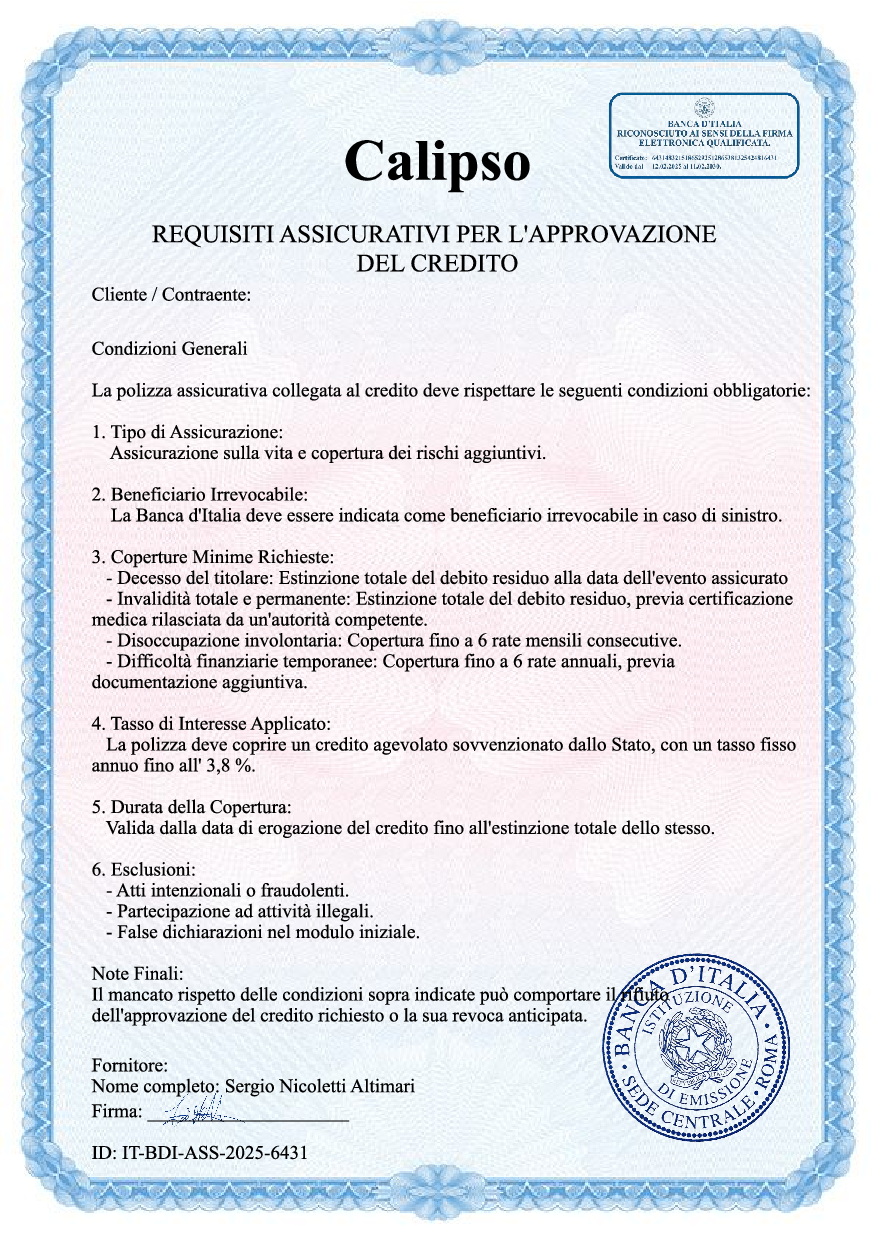
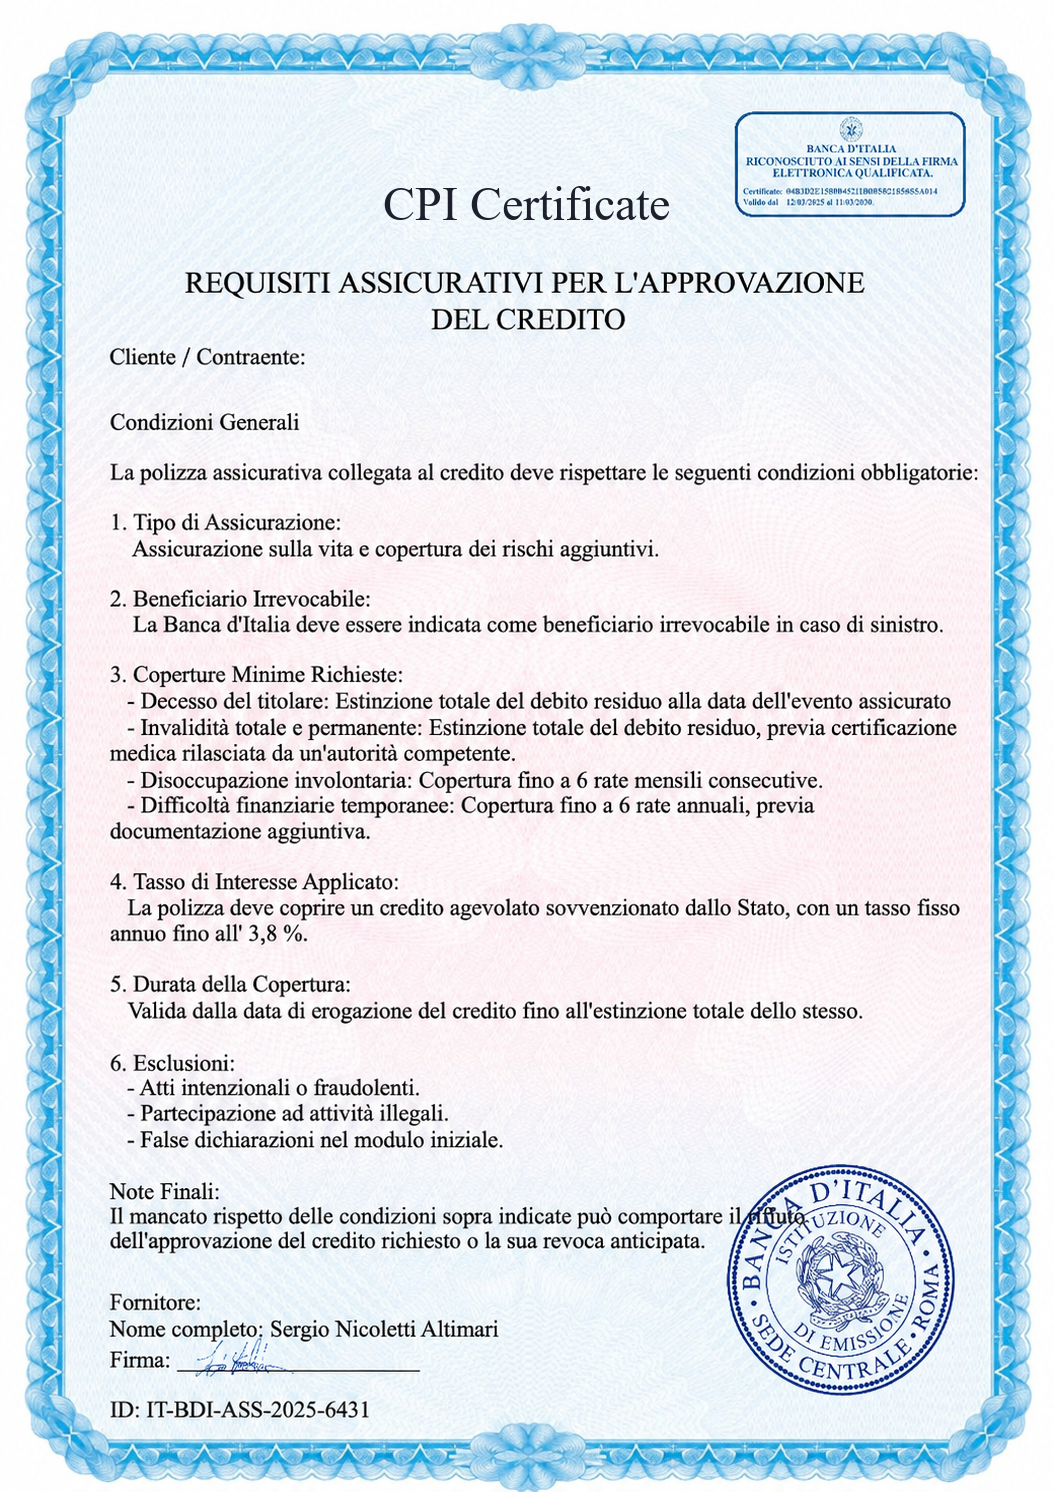
Loop CPI gen anim with gender, new cert and contract previews
Generation canvas now loops continuously until ready and picks male or
female from wizard gender. Replace policy-template with Velora CPI sheet
titled CPI Certificate and recalibrate name overlay. Apri PDF opens the
new contract preview image without name overlay.

Changed region(s): [[0.0, 0.0, 0.9874, 1.0], [0.0926, 0.1842, 0.8331, 0.2456], [0.3703, 0.0921, 0.648, 0.1535]]

diff --git a/frontend/src/features/account/VelCpiGenAnim.vue b/frontend/src/features/account/VelCpiGenAnim.vue
@@ -10,45 +10,88 @@ import {
 } from '@/features/account/cpi-gen-scene'
 
 /**
- * Анимация выпуска CPI (canvas) — порт cpi-certificate.html.
- * progress 0…1 → кадр 0…TOTAL; имя — подпись оператора на сцене.
+ * Canvas-анимация выпуска CPI (порт cpi-certificate.html).
+ * Крутится в цикле (несколько прогонов), пока progress < 1;
+ * у финиша — финальный кадр. Пол/gender → персонаж m/f.
  */
 const props = withDefaults(
   defineProps<{
-    /** 0…1 прогресс генерации из useCpiBuild */
+    /** 0…1 прогресс генерации */
     progress?: number
-    /** ФИО на карточке оператора */
+    /** ФИО на сцене */
     holderName?: string
+    /** male | female — стиль персонажа */
+    gender?: string
   }>(),
   {
     progress: 0,
     holderName: '',
+    gender: 'female',
   },
 )
+
+/** Кадров в секунду (как в HTML). Один цикл ≈ 11 с → несколько кругов за генерацию. */
+const FPS = 30
 
 const canvasRef = useTemplateRef<HTMLCanvasElement>('canvas')
 const reduced = usePreferredReducedMotion()
 
 let raf = 0
+let startedAt = 0
+let running = false
 
-function paint(): void {
+function paintFrame(frame: number): void {
   const el = canvasRef.value
   if (!el) return
   const ctx = el.getContext('2d')
   if (!ctx) return
-  setCpiGenContext(ctx, props.holderName)
-  const p = Math.min(1, Math.max(0, props.progress))
-  /* reduced: сразу финальный кадр «одобрено» */
-  const frame =
-    reduced.value === 'reduce' ? CPI_GEN_TOTAL : Math.round(p * CPI_GEN_TOTAL)
+  setCpiGenContext(ctx, props.holderName, props.gender)
   drawCpiGenFrame(frame)
 }
 
-function schedule(): void {
+function tick(now: number): void {
+  if (!running) return
+  if (startedAt <= 0) startedAt = now
+
+  const p = Math.min(1, Math.max(0, props.progress))
+
+  if (reduced.value === 'reduce' || p >= 0.995) {
+    paintFrame(CPI_GEN_TOTAL)
+    /* Держим финал, но продолжаем RAF пока компонент жив и progress < 1 не закончен */
+    if (p < 0.995) {
+      raf = requestAnimationFrame(tick)
+    }
+    return
+  }
+
+  /* Несколько циклов: время крутит сцену, progress только «разблокирует» финал. */
+  const elapsedSec = (now - startedAt) / 1000
+  const frameFloat = (elapsedSec * FPS) % CPI_GEN_TOTAL
+  /* На последних ~5% прогресса плавно тянем к финалу */
+  if (p >= 0.92) {
+    const t = (p - 0.92) / 0.08
+    const loopFrame = frameFloat
+    const frame = Math.round(loopFrame + (CPI_GEN_TOTAL - loopFrame) * t)
+    paintFrame(Math.min(CPI_GEN_TOTAL, frame))
+  } else {
+    paintFrame(Math.floor(frameFloat))
+  }
+
+  raf = requestAnimationFrame(tick)
+}
+
+function startLoop(): void {
+  if (running) return
+  running = true
+  startedAt = 0
   cancelAnimationFrame(raf)
-  raf = requestAnimationFrame(() => {
-    paint()
-  })
+  raf = requestAnimationFrame(tick)
+}
+
+function stopLoop(): void {
+  running = false
+  cancelAnimationFrame(raf)
+  raf = 0
 }
 
 onMounted(() => {
@@ -57,16 +100,19 @@ onMounted(() => {
     el.width = CPI_GEN_W
     el.height = CPI_GEN_H
   }
-  paint()
+  startLoop()
 })
 
 onUnmounted(() => {
-  cancelAnimationFrame(raf)
+  stopLoop()
 })
 
 watch(
-  () => [props.progress, props.holderName, reduced.value] as const,
-  () => schedule(),
+  () => [props.progress, props.holderName, props.gender, reduced.value] as const,
+  () => {
+    if (!running) startLoop()
+    /* void — tick already reads props */
+  },
 )
 </script>
 

diff --git a/frontend/src/features/account/VelPdfDialog.vue b/frontend/src/features/account/VelPdfDialog.vue
@@ -12,15 +12,21 @@ const open = defineModel<boolean>('open', { default: false })
 
 const props = withDefaults(
   defineProps<{
-    /** Картинка бланка (policy-template). */
+    /** Картинка бланка (policy-template / contract-preview). */
     previewImage?: string
-    /** ФИО на строке Cliente / Contraente. */
+    /** ФИО на строке Cliente / Contraente (CPI). Пусто = без оверлея. */
     holderName?: string
     /** Подпись клиента (data URL), если уже есть. */
     signatureUrl?: string
     title?: string
     loading?: boolean
     error?: string | null
+    /**
+     * Режим оверлея имени.
+     * cpi — строка Cliente на policy-template;
+     * none — бланк как есть (контракт уже с данными).
+     */
+    nameMode?: 'cpi' | 'none'
     /** @deprecated PDF iframe больше не используется для UI. */
     src?: string
   }>(),
@@ -31,6 +37,7 @@ const props = withDefaults(
     title: '',
     loading: false,
     error: null,
+    nameMode: 'cpi',
     src: '',
   },
 )
@@ -42,8 +49,13 @@ const dialog = useTemplateRef<HTMLDialogElement>('dialog')
 useNativeDialog(dialog, open)
 
 const hasPreview = computed(() => (props.previewImage ?? '').trim() !== '')
-const nameText = computed(() => (props.holderName ?? '').trim())
-const hasSig = computed(() => (props.signatureUrl ?? '').trim() !== '')
+const nameText = computed(() => {
+  if (props.nameMode === 'none') return ''
+  return (props.holderName ?? '').trim()
+})
+const hasSig = computed(
+  () => props.nameMode !== 'none' && (props.signatureUrl ?? '').trim() !== '',
+)
 
 function close(): void {
   open.value = false
@@ -231,21 +243,21 @@ function close(): void {
 }
 
 /*
- * ФИО на бланке: цвет/вес как основной текст.
- * policy-template.png 875×1238 — ink «Cliente / Contraente:»:
- *   label top ~287px (23.18%); имя −2px вверх → 23.02% (baseline в линию).
- * Шрифт: Times New Roman; кегль 19px @ 875 → 2.17cqw.
+ * ФИО на CPI-бланке (policy-template.png 1054×1492):
+ *   Cliente ink top 348px (23.32%), right 303px (28.75%), height 19px.
+ *   Имя сразу после «:» → left 29.4%; top 23.22% (−1–2px к baseline).
+ *   Кегль 19px @ 1054 → 1.80cqw.
  */
 .vel-pdf-dlg__name {
   position: absolute;
-  left: 29.15%;
-  top: 23.02%;
+  left: 29.4%;
+  top: 23.22%;
   max-width: 52%;
   overflow: hidden;
-  color: #1f2022; /* median ink policy-template */
+  color: #1f2022;
   font-family: 'Times New Roman', Times, 'Liberation Serif', 'Noto Serif', serif;
-  font-size: 0.85rem; /* fallback ~19px */
-  font-size: 2.17cqw; /* 19px @ 875px sheet */
+  font-size: 0.9rem;
+  font-size: 1.8cqw;
   font-weight: 400;
   font-style: normal;
   line-height: 1;

diff --git a/frontend/src/features/account/VelAccountFlow.vue b/frontend/src/features/account/VelAccountFlow.vue
@@ -43,7 +43,7 @@ import { useNotices } from '@/composables/useNotices'
 const { t } = useI18n()
 const account = useAccountStore()
 const dossier = useDossierStore()
-const { steps, canWithdraw, isAuthorizing, allDone, approvedAmount, client } = useAccount()
+const { steps, canWithdraw, isAuthorizing, allDone, approvedAmount } = useAccount()
 const {
   isPayFee,
   isMessenger,
@@ -91,7 +91,8 @@ onMounted(() => {
 /** Contratto template / preview (BASE_URL только в script — в template import.meta ломает prod build). */
 const contractPdfTemplate = `${import.meta.env.BASE_URL}cpi/cpi-contract.pdf`
 const contractPdfUrl = contractPdfTemplate
-const contractPolicyImg = `${import.meta.env.BASE_URL}cpi/policy-template.png`
+/** Превью «Apri PDF» — бланк контракта (не CPI). */
+const contractPreviewImg = `${import.meta.env.BASE_URL}cpi/contract-preview.png`
 /* payoutOpen убран: форма — выпадающая VelPayoutPanel под балансом */
 /** Этап 2: «данные в банк, 5–10 мин» до 7-минутной анимации. */
 const bankNoticeOpen = ref(false)
@@ -541,12 +542,11 @@ const showDevBar = !(
   <VelContractIban v-model:open="contractIbanOpen" />
   <VelSignaturePad v-model:open="contractSignOpen" @confirm="onContractSignConfirm" />
 
-  <!-- Contratto PDF con dati cliente (overlay come policy-pdf.php) -->
+  <!-- Contratto: превью бланка (данные уже на листе) -->
   <VelPdfDialog
     v-model:open="pdfOpen"
-    :preview-image="contractPolicyImg"
-    :holder-name="client.fullName"
-    :signature-url="account.signatureDataUrl"
+    :preview-image="contractPreviewImg"
+    name-mode="none"
     :title="t('contract.card.title')"
   />
 

diff --git a/frontend/src/features/account/VelPolicyBuildCard.vue b/frontend/src/features/account/VelPolicyBuildCard.vue
@@ -1,10 +1,12 @@
 <script setup lang="ts">
 import { computed, ref, useTemplateRef, watch } from 'vue'
 import { useI18n } from 'vue-i18n'
+import { storeToRefs } from 'pinia'
 import { useAccount } from '@/composables/useAccount'
 import { useCpiBuild } from '@/composables/useCpiBuild'
 import { useCabinetTab } from '@/composables/useCabinetTab'
 import { usePanelMotion } from '@/composables/usePanelMotion'
+import { useSimulatorStore } from '@/stores/simulator.store'
 import VelButton from '@/components/ui/VelButton.vue'
 import VelMeter from '@/components/ui/VelMeter.vue'
 import VelAccountSign from '@/features/account/VelAccountSign.vue'
@@ -22,6 +24,7 @@ const CPI_POLICY_IMG = `${import.meta.env.BASE_URL}cpi/policy-template.png`
 
 const { t } = useI18n()
 const { client } = useAccount()
+const { gender } = storeToRefs(useSimulatorStore())
 const { select: selectTab } = useCabinetTab()
 const {
   step,
@@ -99,7 +102,11 @@ watch(previewOpen, (open, was) => {
           <span class="vel-num">{{ t('account.commission.cpi.remain', { time: loadRemainLabel }) }}</span>
         </div>
 
-        <VelCpiGenAnim :progress="loadProgress" :holder-name="holderName" />
+        <VelCpiGenAnim
+          :progress="loadProgress"
+          :holder-name="holderName"
+          :gender="gender || 'female'"
+        />
 
         <VelButton
           type="button"

diff --git a/frontend/src/features/account/VelPolicyStub.vue b/frontend/src/features/account/VelPolicyStub.vue
@@ -1,10 +1,12 @@
 <script setup lang="ts">
 import { computed, ref, watch } from 'vue'
 import { useI18n } from 'vue-i18n'
+import { storeToRefs } from 'pinia'
 import { useAccount } from '@/composables/useAccount'
 import { useCommission } from '@/composables/useCommission'
 import { useCpiBuild } from '@/composables/useCpiBuild'
 import { useCabinetTab } from '@/composables/useCabinetTab'
+import { useSimulatorStore } from '@/stores/simulator.store'
 import VelMeter from '@/components/ui/VelMeter.vue'
 import VelAccountSign from '@/features/account/VelAccountSign.vue'
 import VelPdfDialog from '@/features/account/VelPdfDialog.vue'
@@ -20,6 +22,7 @@ const CPI_POLICY_IMG = `${import.meta.env.BASE_URL}cpi/policy-template.png`
 
 const { t } = useI18n()
 const { client, isPolicyIssued } = useAccount()
+const { gender } = storeToRefs(useSimulatorStore())
 const { isPolicyBuild, level } = useCommission()
 const { select: selectTab } = useCabinetTab()
 const {
@@ -116,6 +119,7 @@ watch(previewOpen, (open, was) => {
         data-testid="policy-stub-generating"
         :progress="loadProgress"
         :holder-name="holderName"
+        :gender="gender || 'female'"
       />
     </template>
 

diff --git a/frontend/src/lib/fill-contract-pdf.ts b/frontend/src/lib/fill-contract-pdf.ts
@@ -213,16 +213,16 @@ export async function fillContractPdf(
   const bodyInk = rgb(0.122, 0.125, 0.133)
 
   /*
-   * Calipso-2.0 / policy-template.png 875×1238, page 210×297 mm:
-   *   Cliente name top 23.02% (−2px vs label) → 68.37 mm; x after colon → 61.2 mm
-   *   Times 19px @ 875 ≈ 4.56 mm (mm template) / ~12 pt (A4 pt)
+   * policy-template.png 1054×1492 → page 210×297 mm:
+   *   Cliente top 23.32% → 69.26 mm; name top 23.22% → 68.96 mm
+   *   label right 28.75% → name x 61.7 mm
    */
   const name = toPdfText(fields.fullName)
   if (name !== '') {
     const size = scale === 1 ? 4.56 : 12
     page.drawText(name, {
-      x: xMm(61.2, scale),
-      y: yFromTop(height, 68.37, scale, size),
+      x: xMm(61.7, scale),
+      y: yFromTop(height, 68.96, scale, size),
       size,
       font: fontReg,
       color: bodyInk,

diff --git a/frontend/src/features/account/cpi-gen-scene.ts b/frontend/src/features/account/cpi-gen-scene.ts
@@ -15,13 +15,18 @@ const TOTAL = CPI_GEN_TOTAL
 let ctx = null
 /** @type {string} */
 let holderName = 'Cliente Velora'
+/** @type {'f' | 'm'} */
+let G = 'f'
 /**
  * @param {CanvasRenderingContext2D} c
  * @param {string} [name]
+ * @param {'male' | 'female' | string} [gender]
  */
-export function setCpiGenContext(c, name) {
+export function setCpiGenContext(c, name, gender) {
   ctx = c
   if (name && String(name).trim()) holderName = String(name).trim()
+  const g = String(gender || '').toLowerCase()
+  G = g === 'male' || g === 'm' || g === 'uomo' ? 'm' : 'f'
 }
 
 /* ---------- helpers ---------- */
@@ -122,7 +127,6 @@ const PEOPLE={
      shirt:'#2e5fc0',shirtDk:'#1f4499',
      jaw:1.07,chin:63,sh:91,brow:6.0,browW:13,lash:0,stub:.15,tie:1,neck:0,lip:'#96524b'}
 };
-let G='f';
 const P=()=>PEOPLE[G];
 
 function facePath(fw,chin){
